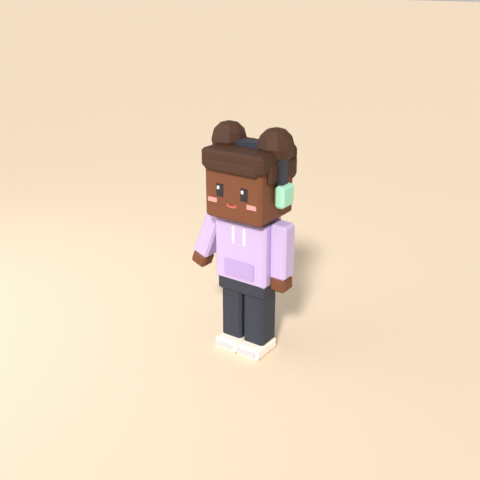
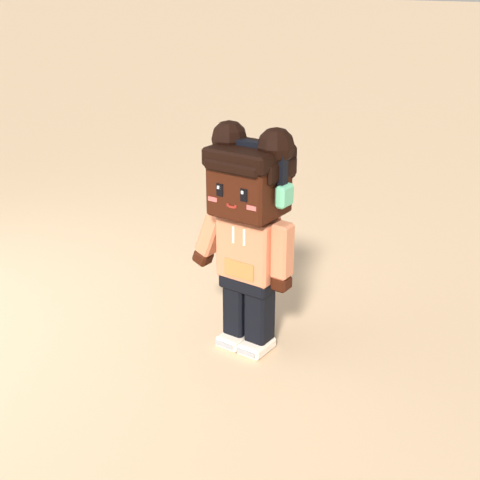
Take lilac off the townsfolk so lilac and gold mean special only (#479)
Review-QA on pull request 477: from behind at a quarter size Bea in her
lilac cardigan and Pearl were the two lilac figures. Bea's cardigan is now
sage and Juno's hoodie peach. Shapes, names, joints and attributes are
unchanged.

Claude-Session: https://claude.ai/code/session_01DW2up3E6M21fYJtCcCtEdr

Changed region(s): [[0.4062, 0.4375, 0.625, 0.625]]

diff --git a/assets/clean-a-cat/blender/townsfolk.py b/assets/clean-a-cat/blender/townsfolk.py
@@ -33,7 +33,8 @@ SPECIAL_LOOKS has the special customers (issue #476), who bring the special cats
 2026-11-25: special customers "that expire that only I can take their cats". A draft: same build, joints, Attachments
 and attributes as the townsfolk, so the walk in and the carry work unchanged, plus a root attribute `Special` = true.
 They are told from the townsfolk across a yard by one shared cue: lilac and gold (the game's prize colours), gold
-shoes, a gold star, and a hat no townsperson wears (a beret, a crown, a wide feathered hat). They carry
+shoes, a gold star, and a hat no townsperson wears (a beret, a crown, a wide feathered hat). No look in LOOKS wears
+lilac or gold (#479). They carry
 `CleanACat_Prop_CarrierRoyal` (spa_props). Vivi is the rare visitor of #142 (busy_spa.VISITORS) on the new build.
 """
 
@@ -67,12 +68,12 @@ LOOKS = {
     # a ginger ponytail, denim dungarees over a pink tee
     "Rae": dict(body=ADULT, skin="skin_light", hair="fur_ginger", style="ponytail", tie="spa_mint",
                 top="spa_bubblegum", overalls="fur_puddle", shoes="shirt_red", brows=True),
-    # hair in two puffs, a lilac hoodie and mint headphones
-    "Juno": dict(body=ADULT, skin="skin_deep", hair="choco", style="puffs", top="pastel_lilac", hood=True,
-                 pocket="fur_lavender", pants="fur_ink", shoes="offwhite", phones="spa_mint"),
-    # a granny with a silver bun, round glasses and a lilac cardigan
+    # hair in two puffs, a peach hoodie and mint headphones (lilac until #479: lilac is the special customers')
+    "Juno": dict(body=ADULT, skin="skin_deep", hair="choco", style="puffs", top="fur_peach", hood=True,
+                 pocket="fur_apricot", pants="fur_ink", shoes="offwhite", phones="spa_mint"),
+    # a granny with a silver bun, round glasses and a sage cardigan (lilac until #479)
     "Bea": dict(body=SMALL, skin="skin_light", hair="fur_silver", style="bun", glasses="brass", top="offwhite",
-                cardigan="fur_lavender", skirt="fur_puddle", legs="fur_ink", shoes="hair_brown", brows=True),
+                cardigan="fur_fern", skirt="fur_puddle", legs="fur_ink", shoes="hair_brown", brows=True),
     # tall, russet curls and a beard, a sky jumper with a paw on it
     "Theo": dict(body=TALL, skin="skin_light", hair="fur_russet", style="curls", beard=True, top="pastel_sky",
                  patch="paw", patch_sw="offwhite", pants="fur_bramble", shoes="choco", brows=True),

diff --git a/docs/art/style-guide.md b/docs/art/style-guide.md
@@ -175,8 +175,8 @@ The owner on 2026-11-25: "rework customers to be much better", and what bothered
 | `CleanACat_NPC_Customer_Mo` | tall | short black hair, a striped butter jumper, a mint scarf, navy trousers |
 | `CleanACat_NPC_Customer_Pip` | small | a brown bob, a sky hoodie, a pink tote bag with a paw in the left hand |
 | `CleanACat_NPC_Customer_Rae` | adult | a ginger ponytail, denim dungarees with a paw over a pink tee, red shoes |
-| `CleanACat_NPC_Customer_Juno` | adult | hair in two puffs, a lilac hoodie, mint headphones |
-| `CleanACat_NPC_Customer_Bea` | small | a granny: a silver bun, round brass glasses, a lilac cardigan, a denim skirt |
+| `CleanACat_NPC_Customer_Juno` | adult | hair in two puffs, a peach hoodie, mint headphones |
+| `CleanACat_NPC_Customer_Bea` | small | a granny: a silver bun, round brass glasses, a sage cardigan, a denim skirt |
 | `CleanACat_NPC_Customer_Theo` | tall | russet curls and a beard, a sky jumper with a paw |
 | `CleanACat_NPC_Customer_Kit` | adult | a mint cat-ear beanie, a butter tee with a paw, a pink backpack |
 
@@ -184,7 +184,7 @@ The owner on 2026-11-25: "rework customers to be much better", and what bothered
 - **Joints.** The main object is `..._Body` (torso, hips, skirt, neck, scarf, hood, backpack); its biggest part is the PrimaryPart. Five child Models, each with its pivot at the joint: `..._Head` (top of the neck), `..._ArmL` and `..._ArmR` (shoulder), `..._LegL` and `..._LegR` (hip). Turn one about its pivot's X axis for a step, an arm swing or a nod, and the head about its Y to look round. Left and right are the customer's own. No knees or elbows: a step of about 25 degrees each way reads as a walk at this size.
 - **The carrier hand.** The right arm is built already held out to the side by the root attribute `CarryArmDegrees` (20 to 36), which is what it takes for the carrier to clear the hips or the skirt. The Attachment `Grip` is in the middle of that hand, on the arm's biggest part so it follows the arm: put the carrier's own `Grip` on it with the carrier facing the customer's way, and it swings 0.06 to 0.3 over the ground beside the leg. To hang the arm straight, turn it back by `CarryArmDegrees` about its pivot's Z.
 - **Other Attachments and attributes.** `Overhead` over the head, clear of any hat, for a bubble or a timer. `Look` (the name), `WalkSpeed` (6 to 7 studs a second), `LegLength` (hip joint to floor: a step of A degrees each way covers 2 x LegLength x sin A), `Height`.
-- **Rules kept from this.** A customer's face is never covered (hats sit on the hair, glasses are thin frames). Clothes are our pastels with one deeper colour (navy, denim, brown) so a customer stands out from the pastel room. No customer wears the staff's mint smock. Children are not in this set: a child's hand is too low for the carrier, so a child needs a different way to bring a cat.
+- **Rules kept from this.** A customer's face is never covered (hats sit on the hair, glasses are thin frames). Clothes are our pastels with one deeper colour (navy, denim, brown) so a customer stands out from the pastel room. No customer wears the staff's mint smock. No townsperson wears lilac or gold: those mean a special customer (#479; Bea's cardigan and Juno's hoodie were lilac until then). Children are not in this set: a child's hand is too low for the carrier, so a child needs a different way to bring a cat.
 
 #### The special customers (#476), a draft
 The owner on 2026-11-25: special customers "that expire that only I can take their cats and have them have the really cool cat designs". These bring the special cats (section 20). `townsfolk.SPECIAL_LOOKS` holds a first three, built exactly like the townsfolk (same joints, `Grip`, `Overhead` and attributes, so the walk in and the carry work unchanged) with one more root attribute, `Special` = true. They are not in the game's townsfolk list, so nothing spawns them until the game wires it.
@@ -195,7 +195,7 @@ The owner on 2026-11-25: special customers "that expire that only I can take the
 | `CleanACat_NPC_Customer_Rex` | tall | a jolly king: a gold crown with three jewels, a silver beard, a berry cape with a pearl collar, a gold star on a lilac tunic |
 | `CleanACat_NPC_Customer_Pearl` | adult | a grand lady: a wide lilac hat with a gold band and a pink plume, pearls, white gloves, a lilac dress with a gold star |
 
-- **One shared cue, so a player learns it once.** Lilac and gold are the game's prize colours (the better tools, the pet crate, the VIP room). Every special customer wears lilac, gold shoes and a gold star, and a hat no townsperson wears. No townsperson wears gold. Bea's lilac cardigan is the nearest thing in the town, and her brown shoes, bun and butter carrier keep her apart.
+- **One shared cue, so a player learns it once.** Lilac and gold are the game's prize colours (the better tools, the pet crate, the VIP room). Every special customer wears lilac, gold shoes and a gold star, and a hat no townsperson wears. No townsperson wears lilac or gold (#479).
 - **Their carrier.** `CleanACat_Prop_CarrierRoyal` (`spa_props.py`): the same carrier in lilac on a deeper lilac tray with a gold gate and handle, gold stars on the sides and a little gold crown on the roof. Same size, hinge, Attachments and attributes as the other three. 610 triangles, 63 parts.
 - **The cape** hangs from the collar between the arms and sweeps back 11 degrees, so a leg swinging behind passes under it at a 26 degree step. It is part of the body and does not move.
 - 1,218 to 1,332 triangles and 55 to 74 parts each, inside the customer budget. 5.6 to 6.1 studs to the top of the hat.

diff --git a/docs/concepts/clean-a-cat/README.md b/docs/concepts/clean-a-cat/README.md
@@ -81,3 +81,4 @@ HUD source page: `assets/clean-a-cat/ui/hud.html`. Plans: issues #5 (first sessi
 - `2026-11-25-special-cats.png`: the check sheet for the six special customers' cats (#471), a draft: each one's card picture at 200, 96 and 64 px, walking, from behind, sitting, muddy, its card picture at each dirt level, and all six beside Muffin and Tux. Sherbet, Rosette and Prism changed after it (#474), so for those three read the next sheet.
 - `2026-11-25-special-cats-big-cue.png`: the check sheet for #474: Sherbet, Rosette and Prism before and after at 200, 96 and 64 px, walking, from behind, sitting, the card picture at each dirt level, and all six special cats beside Muffin, Tux, Cotton and Marble.
 - `2026-11-25-special-customers.png`: the check sheet for the special customers (#476), a draft: Vivi, Rex and Pearl in a line with three townsfolk from the front and from behind, each one from four sides with the royal carrier and a special cat, a walk, and the carrier alone.
+- `2026-11-25-lilac-means-special.png`: the check sheet for #479: Bea and Juno before (lilac) and after (sage, peach) in a line with the special customers, from the front and from behind, at full and quarter size.
